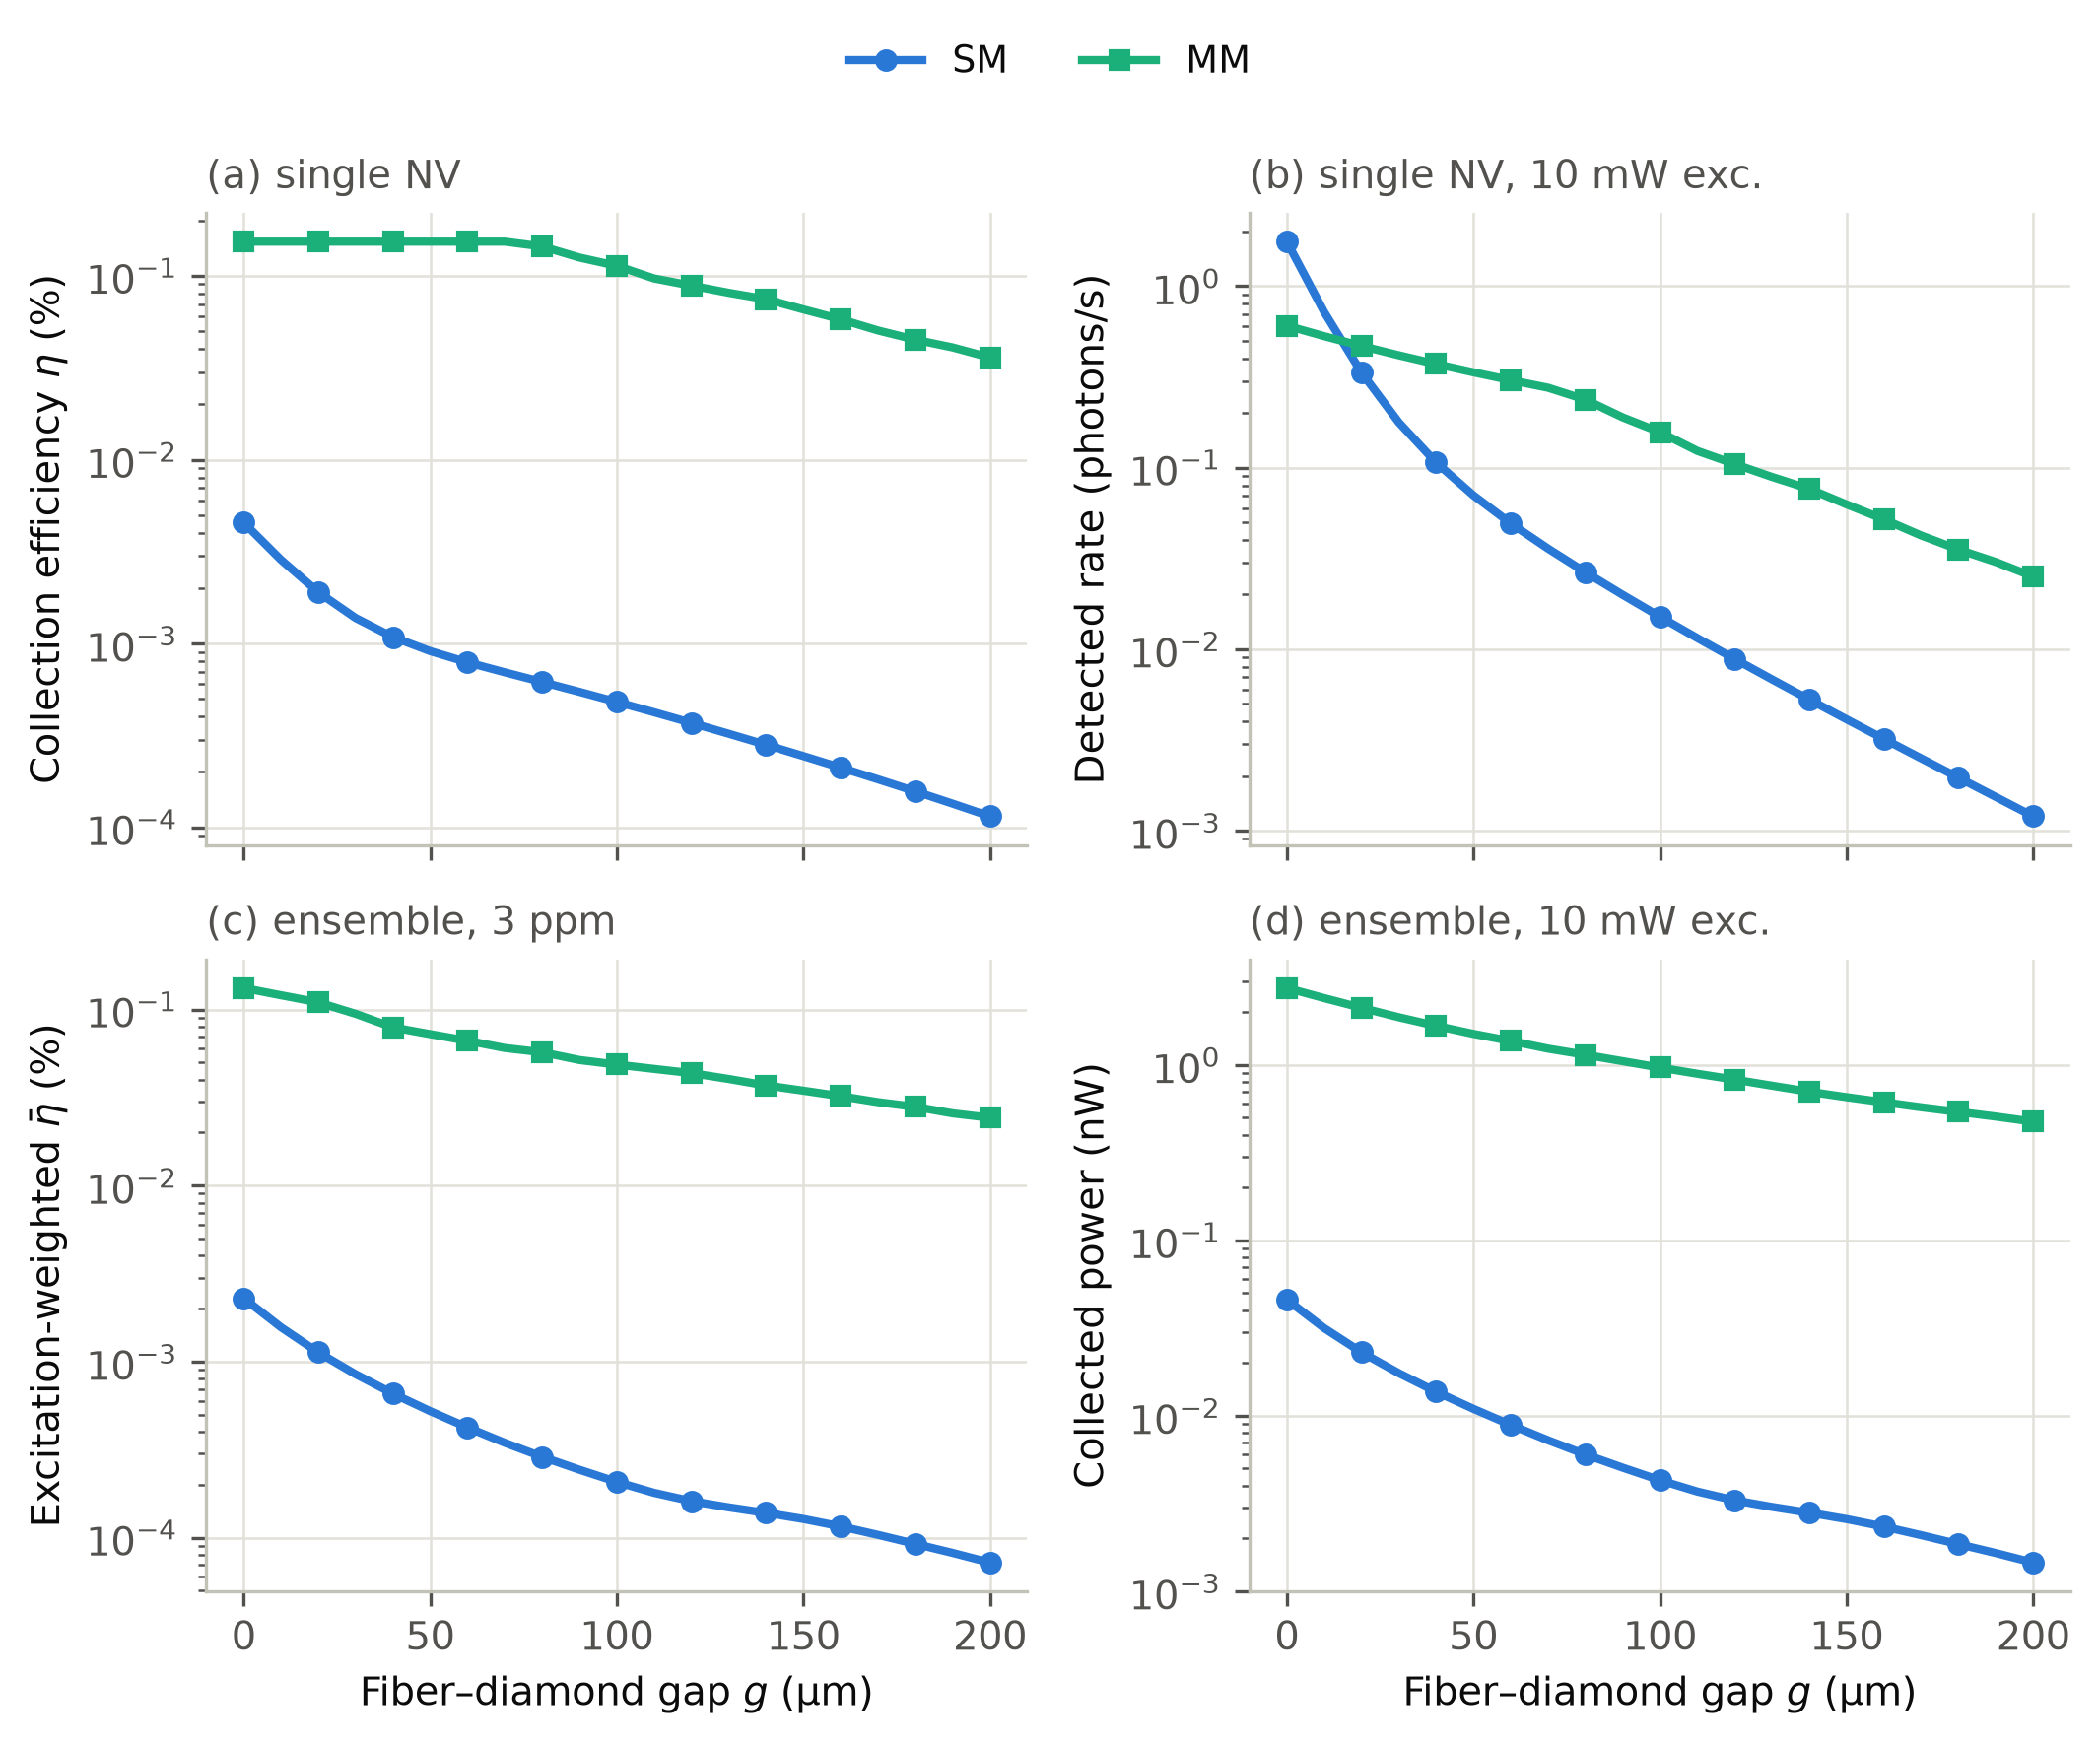
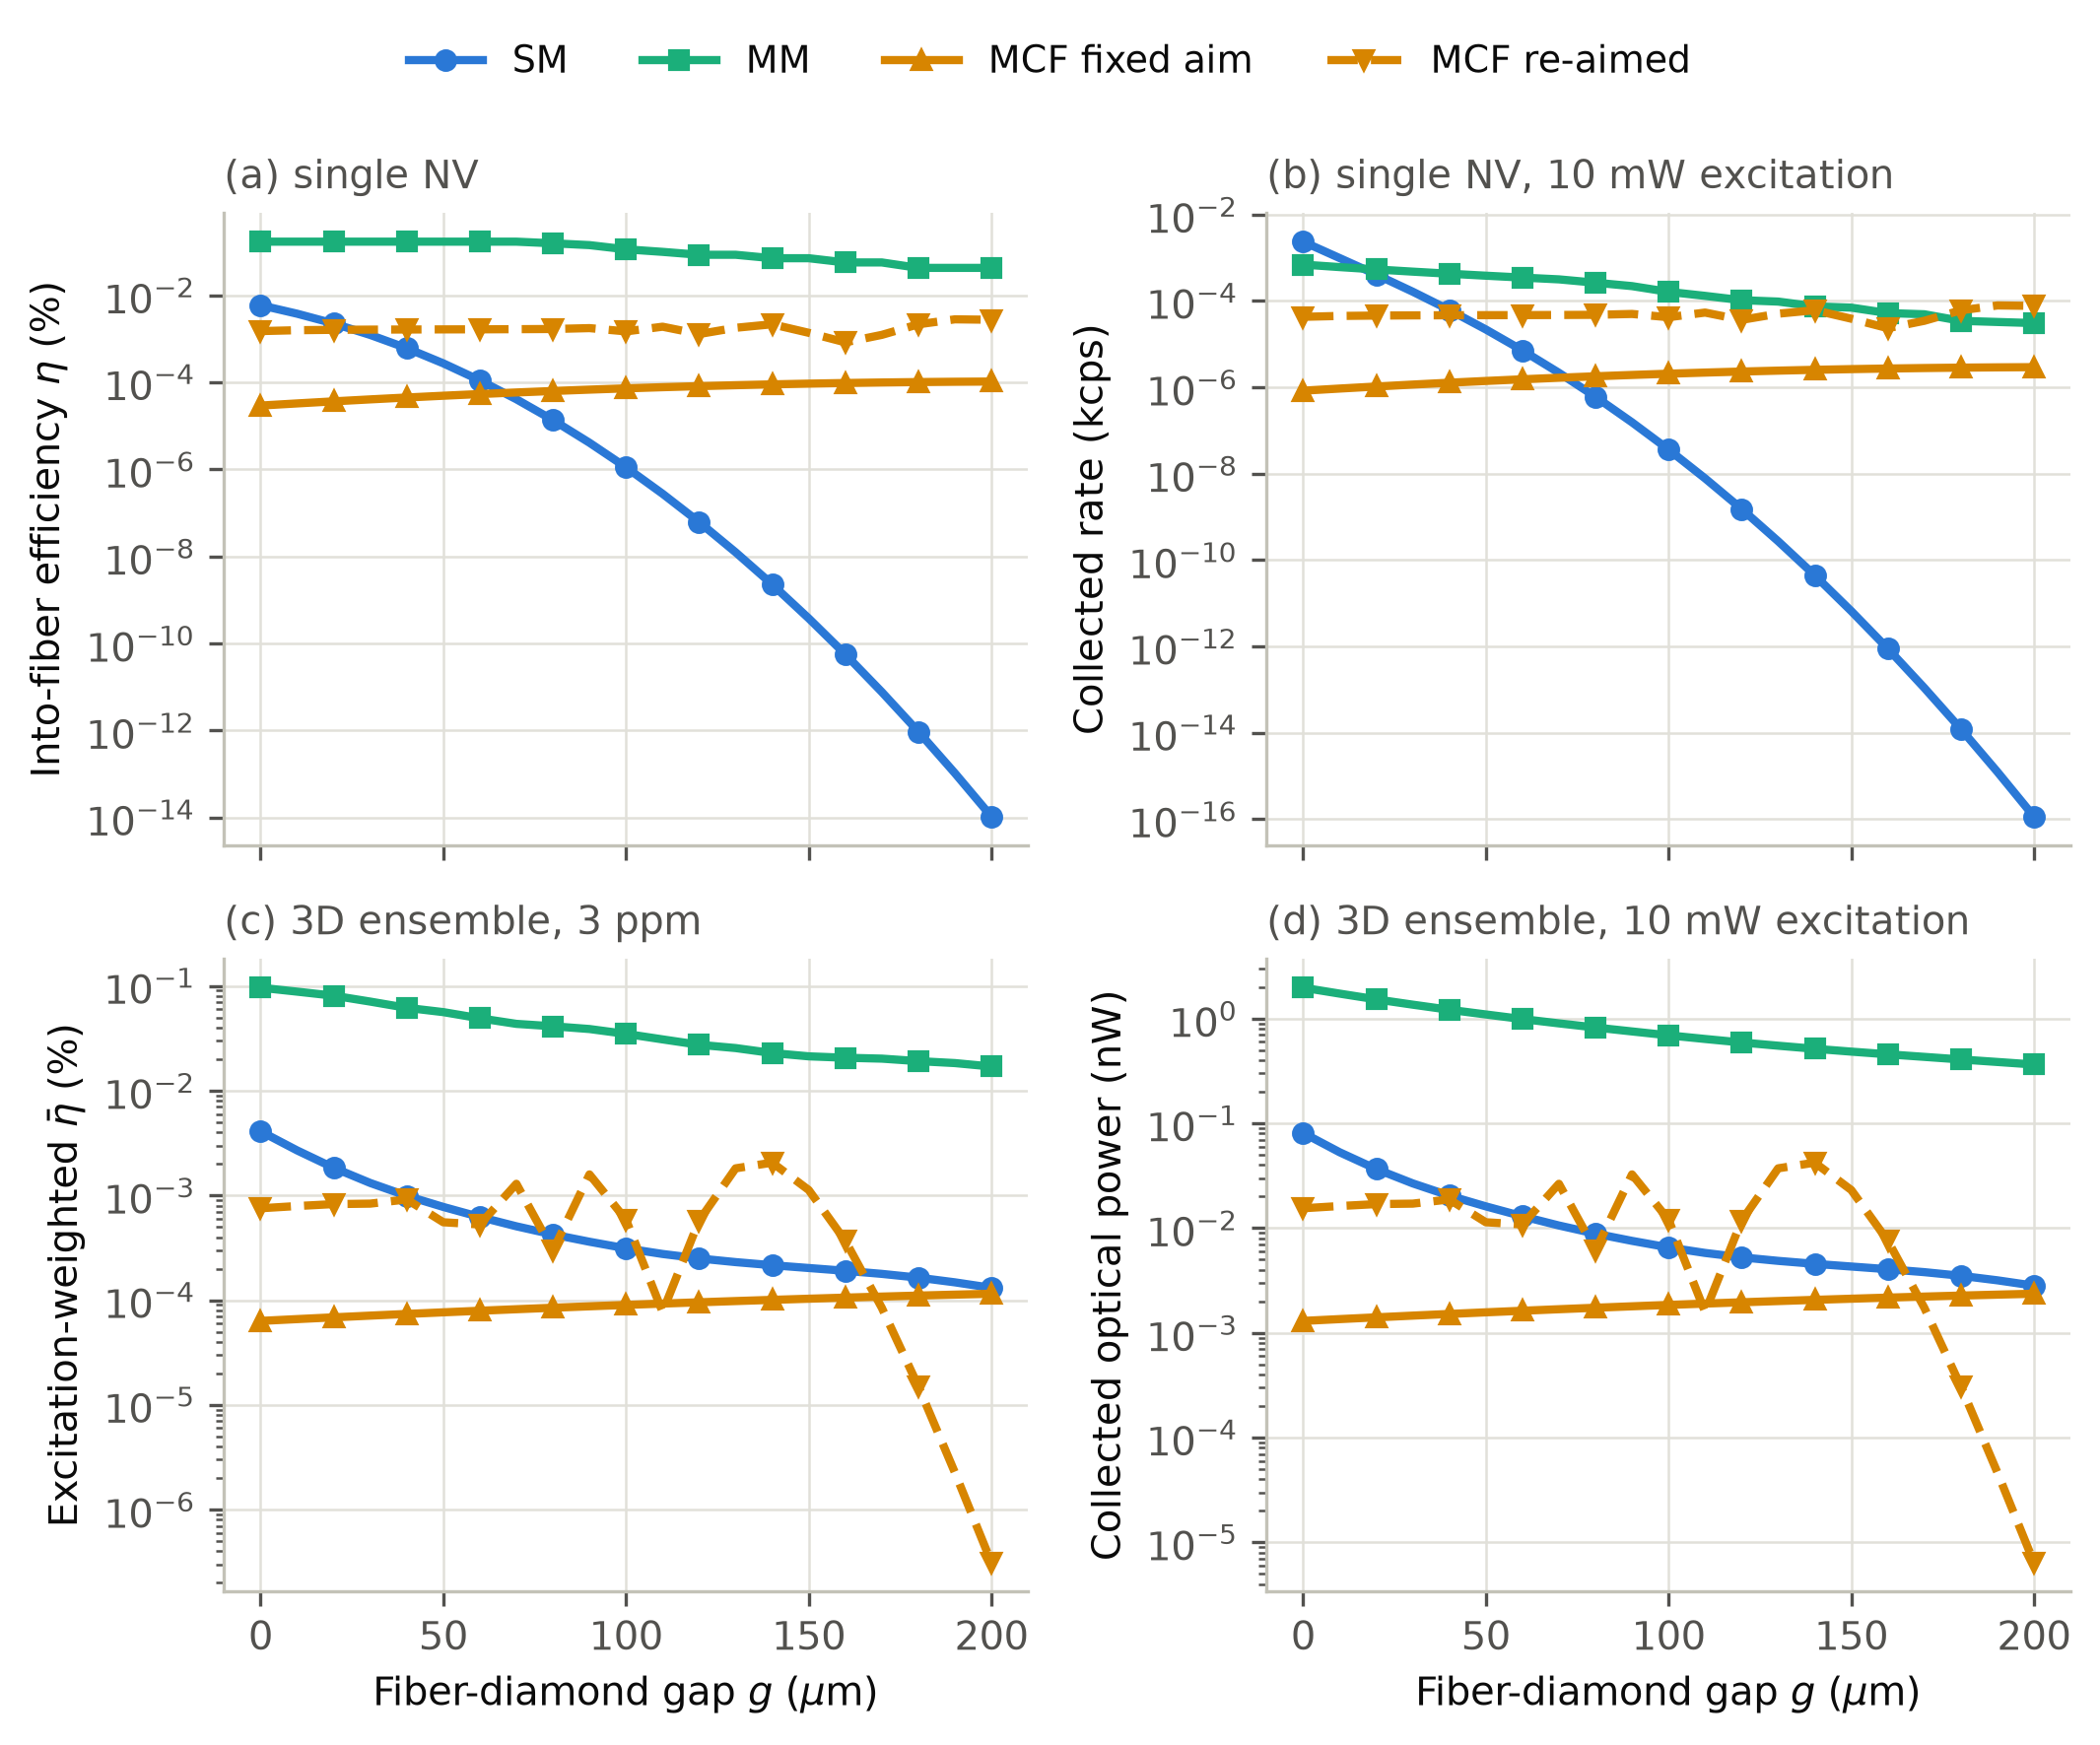
Refine paper figure generation and probe metrics

diff --git a/paper_figures.py b/paper_figures.py
@@ -1,6 +1,6 @@
 """
 paper_figures.py -- static publication figures for the SM / MM / MCF NV-diamond
-fiber-probe comparison. Run `py paper_figures.py`; figures land in ./figures
+fiber-probe comparison. Run `python paper_figures.py`; figures land in ./figures
 (PNG 300 dpi + vector PDF). No UI, no CLI args: edit the constants block.
 
 Model (shared Monte-Carlo ray tracer in physics.py, same as the app):
@@ -26,13 +26,13 @@ Model (shared Monte-Carlo ray tracer in physics.py, same as the app):
     and exactly reweighted by the true density / proposal pdf, so population
     totals are unbiased and every gap keeps hundreds of effective samples.
     Emission anisotropy: 4-axis NV dipole average.
-  * The MCF's lensed cores accept only ~0.7deg of angle, so those configs get
-    a much larger shared ray set (see CONFIGS); tracer calls are chunked over
-    emitters to cap memory.
-  * Efficiencies are "collected into the fiber" (diamond-exit Fresnel +
-    coupling); detected-rate/power panels additionally apply the fiber
-    entrance Fresnel. No filter/QE/attenuation chain -- these figures
-    characterize the probe, not a detector.
+  * Rays use a fixed, equal-solid-angle quadrature over the diamond escape
+    cone, rather than wasting samples over the TIR hemisphere.  Tracer calls
+    are chunked over emitters to keep the peak working set bounded.
+  * Every reported efficiency is power coupled into the fiber/lens: diamond
+    exit Fresnel, mode/geometric coupling, and the air-to-fiber/lens entrance
+    Fresnel are included. No filter, detector QE, connector, or propagation
+    loss is included -- these figures characterize the probe, not a detector.
   * Distance and resolution sweeps run at a representative 700 nm; the full
     spectral dependence is figure 2. Fixed seeds; fully reproducible.
 """
@@ -47,7 +47,7 @@ import matplotlib.pyplot as plt
 from physics import (
     diamond_sellmeier, nv_emission_spectrum,
     GEOMETRIC_MODEL, MODE_OVERLAP_MODEL,
-    get_collection_limit_radius, sample_ray_directions, run_ray_tracing,
+    get_collection_limit_radius, run_ray_tracing,
 )
 
 
@@ -85,8 +85,10 @@ E_PHOT_RED = 6.62607015e-34 * 2.99792458e8 / (LAM_RED * 1e-9)   # J
 # ensemble & Monte Carlo
 PPM        = 3.0
 RHO        = PPM * 1.76e5            # NV/um^3
-N_EMIT     = 1000                    # importance-sampled emitters
-RAY_BUDGET = 6_000_000               # max emitters*rays per tracer call (memory cap)
+N_EMIT     = 600                     # importance-sampled emitters
+# The tracer keeps several (n_emitters, n_rays) arrays plus a 3-vector array.
+# 0.75 M ray pairs gives a reproducible workstation-safe peak memory use.
+RAY_BUDGET = 750_000                 # max emitter-ray pairs per tracer call
 
 # MCF as-built (Shukhin et al., OMN 2024 + lens-design spreadsheet)
 PITCH, DECENTER = 35.0, 18.0
@@ -119,28 +121,28 @@ def mcf_fibers(g, reaim):
                      'd_clad': PITCH * 1.3, 'na': 0.15, 'boresight': b, 'w0': W0_LENS})
     return fibs
 
-# n1 / nen: shared ray-set sizes for the single-NV and ensemble runs. The MCF's
-# ~0.7deg angular acceptance keeps only ~1e-4 of hemisphere rays, so it needs
-# far more of them for the same Monte-Carlo error.
+# n1 / nen are equal-solid-angle escape-cone quadrature counts for the single
+# NV and ensemble calculations.  They are deliberately shared by all probe
+# types so differences are optical, not sampling artifacts.
 CONFIGS = [
     dict(name="SM",            exc="SM",  model=MODE_OVERLAP_MODEL,
          fibers=lambda g: [{'x': 0.0, 'y': 0.0, 'z': GAPS[-1], 'd_core': 4.0,
                             'd_clad': 125.0, 'na': 0.12}],
-         na=0.12, tf=t_face(1.46), n1=60_000, nen=12_000,
+         na=0.12, tf=t_face(1.46), n1=65_536, nen=16_384,
          color="#2a78d6", ls="-",  marker="o"),
     dict(name="MM",            exc="MM",  model=GEOMETRIC_MODEL,
          fibers=lambda g: [{'x': 0.0, 'y': 0.0, 'z': GAPS[-1], 'd_core': 50.0,
                             'd_clad': 125.0, 'na': 0.22}],
-         na=0.22, tf=t_face(1.46), n1=60_000, nen=12_000,
-         color="#1baf7a", ls="-",  marker="s")
-    # dict(name="MCF as-built",  exc="MCF", model=MODE_OVERLAP_MODEL,
-    #      fibers=lambda g: mcf_fibers(g, reaim=False),
-    #      na=0.15, tf=t_face(1.51), n1=6_000_000, nen=48_000,
-    #      color="#eda100", ls="-",  marker="^"),
-    # dict(name="MCF re-aimed",  exc="MCF", model=MODE_OVERLAP_MODEL,
-    #      fibers=lambda g: mcf_fibers(g, reaim=True),
-    #      na=0.15, tf=t_face(1.51), n1=6_000_000, nen=48_000,
-    #      color="#eda100", ls="--", marker="v"),
+         na=0.22, tf=t_face(1.46), n1=65_536, nen=16_384,
+         color="#1baf7a", ls="-",  marker="s"),
+    dict(name="MCF fixed aim", exc="MCF", model=MODE_OVERLAP_MODEL,
+           fibers=lambda g: mcf_fibers(g, reaim=False),
+           na=0.15, tf=t_face(1.51), n1=65_536, nen=16_384,
+           color="#d78500", ls="-",  marker="^"),
+    dict(name="MCF re-aimed",    exc="MCF", model=MODE_OVERLAP_MODEL,
+         fibers=lambda g: mcf_fibers(g, reaim=True),
+         na=0.15, tf=t_face(1.51), n1=65_536, nen=16_384,
+         color="#d78500", ls="--", marker="v"),
 ]
 
 # ============================ excitation ================================
@@ -153,7 +155,12 @@ def exc_width(profile, d, g):
     if profile == "SM":
         w0, th_a = 2.0, np.arcsin(0.12)
     else:                                    # MCF central core, collimated
-        w0, th_a = W0_LENS, (LAM_GREEN * 1e-3) / (np.pi * W0_LENS)
+        # Gaussian propagation: z_R = pi*n*w0^2/lambda.  The central core is
+        # collimated by design, so only this diffraction broadening is used.
+        w0 = W0_LENS
+        z_eff = g + d / N_DIA_GREEN
+        return w0 * np.sqrt(1.0 + (LAM_GREEN * 1e-3 * z_eff
+                                    / (np.pi * w0 * w0)) ** 2)
     th_d = np.arcsin(np.sin(th_a) / N_DIA_GREEN)
     return np.sqrt(w0 ** 2 + (g * np.tan(th_a) + d * np.tan(th_d)) ** 2)
 
@@ -168,6 +175,42 @@ def exc_rate(profile, x, y, z, g):
         I = 2.0 * P_GREEN_MW * T_GREEN_IN / (np.pi * w * w) * np.exp(-2.0 * r2 / (w * w))
     s = I / I_SAT
     return R_SAT * s / (1.0 + s), float(np.max(s))
+
+
+def escape_cone_quadrature(num_rays, n_dia, seed=42):
+    """Equal-solid-angle, fixed-seed quadrature over the transmitting cone.
+
+    ``run_ray_tracing`` normally expects directions drawn uniformly over the
+    upper hemisphere and therefore applies its conventional 1/2 factor.  Here
+    directions are instead restricted to the diamond-to-air escape cone; each
+    dipole weight gets the importance factor ``1-cos(theta_c)`` so the same
+    estimator remains exactly normalized to emission into 4pi.  A scrambled
+    grid avoids the severe rare-event noise of uniform-hemisphere Monte Carlo
+    for the MCF's diffraction-limited angular acceptance.
+    """
+    n_theta = max(1, int(np.floor(np.sqrt(num_rays))))
+    n_phi = int(np.ceil(num_rays / n_theta))
+    rng = np.random.default_rng(seed)
+    u_shift, p_shift = rng.random(2)
+    # Uniform in cos(theta) gives equal solid angle.  Keep every node safely
+    # inside the critical angle so numerical roundoff cannot create TIR rays.
+    cos_c = np.sqrt(1.0 - (N_MED / n_dia) ** 2)
+    u = ((np.arange(n_theta) + 0.5 + u_shift) % n_theta) / n_theta
+    p = ((np.arange(n_phi) + 0.5 + p_shift) % n_phi) / n_phi
+    uu, pp = np.meshgrid(u, p, indexing="ij")
+    cos_theta = 1.0 - uu.ravel() * (1.0 - cos_c)
+    phi = 2.0 * np.pi * pp.ravel()
+    sin_theta = np.sqrt(np.maximum(0.0, 1.0 - cos_theta * cos_theta))
+    v0 = np.column_stack((sin_theta * np.cos(phi), sin_theta * np.sin(phi), cos_theta))
+
+    # Four-axis NV average: two orthogonal dipoles per axis, normalized to
+    # unit 4pi-average emission.  This is also the orientation average used
+    # for the single-NV panel, where the individual NV orientation is unknown.
+    axes = np.array([[1.0, 1.0, 1.0], [1.0, -1.0, -1.0],
+                     [-1.0, 1.0, -1.0], [-1.0, -1.0, 1.0]]) / np.sqrt(3.0)
+    dipole_weight = 0.75 * (1.0 + np.mean((v0 @ axes.T) ** 2, axis=1))
+    weights = dipole_weight * (1.0 - cos_c)
+    return v0[:num_rays], weights[:num_rays]
 
 # ===================== ensemble emitter sampling ========================
 def sample_ensemble(cfg, n, rng):
@@ -227,32 +270,35 @@ def run_sweeps():
 
     for cfg in CONFIGS:
         print(f"  sweeping {cfg['name']} ...", flush=True)
-        V0_1, W0_1 = sample_ray_directions(cfg['n1'], "NV Symmetry Axis", "Ensemble (4-axis average)")
-        V0_e, W0_e = sample_ray_directions(cfg['nen'], "NV Symmetry Axis", "Ensemble (4-axis average)")
+        V0_1, W0_1 = escape_cone_quadrature(cfg['n1'], N_DIA_RED, seed=17)
+        V0_e, W0_e = escape_cone_quadrature(cfg['nen'], N_DIA_RED, seed=23)
         em, dens = sample_ensemble(cfg, N_EMIT, np.random.default_rng(42))
         r_em = np.hypot(em[:, 0], em[:, 1])
         order = np.argsort(r_em)
 
         eta1 = np.zeros_like(GAPS); rate1 = np.zeros_like(GAPS)
-        etaE = np.zeros_like(GAPS); powE = np.zeros_like(GAPS); d50 = np.zeros_like(GAPS)
+        etaE = np.zeros_like(GAPS); powE = np.zeros_like(GAPS); a50 = np.zeros_like(GAPS)
         for k, g in enumerate(GAPS):
             fibs = cfg['fibers'](g)
-            eta1[k] = eta_per_emitter(single, V0_1, W0_1, fibs, g, cfg['model'])[0]
+            eta1[k] = cfg['tf'] * eta_per_emitter(single, V0_1, W0_1, fibs, g, cfg['model'])[0]
             R1, s1 = exc_rate(cfg['exc'], 0.0, 0.0, -NV_DEPTH, g)
-            rate1[k] = R1 * eta1[k] * cfg['tf']
+            rate1[k] = R1 * eta1[k]
 
             eta_i = eta_per_emitter(em, V0_e, W0_e, fibs, g, cfg['model'])
             Ri, sE = exc_rate(cfg['exc'], em[:, 0], em[:, 1], em[:, 2], g)
             u = Ri * eta_i * dens                     # signal carried per sample
-            etaE[k] = u.sum() / (Ri * dens).sum()
+            etaE[k] = cfg['tf'] * u.sum() / (Ri * dens).sum()
             powE[k] = u.mean() * cfg['tf'] * E_PHOT_RED * 1e9     # nW
             cu = np.cumsum(u[order])
-            d50[k] = (2.0 * r_em[order][np.searchsorted(cu, 0.5 * cu[-1])]
-                      if cu[-1] > 0 else np.nan)
+            # A50 is the on-axis circular area on the NV layer containing
+            # half the excitation x collection weighted ensemble signal.
+            # This definition remains meaningful for the MCF's six lobes.
+            r50 = r_em[order][np.searchsorted(cu, 0.5 * cu[-1])] if cu[-1] > 0 else np.nan
+            a50[k] = np.pi * r50 * r50
             s_max_seen = max(s_max_seen, s1, sE)
 
         out[cfg['name']] = dict(cfg=cfg, eta1=eta1, rate1=rate1,
-                                etaE=etaE, powE=powE, d50=d50,
+                                etaE=etaE, powE=powE, a50=a50,
                                 g_opt=float(GAPS[np.argmax(eta1)]))
     return out, s_max_seen
 
@@ -262,10 +308,13 @@ def run_spectra(results):
     spectra = {}
     for name, r in results.items():
         cfg, g = r['cfg'], r['g_opt']
-        V0, W0 = sample_ray_directions(cfg['n1'], "NV Symmetry Axis", "Ensemble (4-axis average)")
+        # Cover the largest escape cone in the spectrum; the tracer then
+        # applies wavelength-specific Snell, Fresnel, and TIR physics.
+        n_min = min(float(diamond_sellmeier(lam / 1000.0)) for lam in LAM_SPECTRUM)
+        V0, W0 = escape_cone_quadrature(cfg['n1'], n_min, seed=31)
         spectra[name] = np.array([
-            eta_per_emitter(single, V0, W0, cfg['fibers'](g), g, cfg['model'],
-                            lam=lam, n_dia=float(diamond_sellmeier(lam / 1000.0)))[0]
+            cfg['tf'] * eta_per_emitter(single, V0, W0, cfg['fibers'](g), g, cfg['model'],
+                                         lam=lam, n_dia=float(diamond_sellmeier(lam / 1000.0)))[0]
             for lam in LAM_SPECTRUM])
     return spectra
 
@@ -292,21 +341,21 @@ def save(fig, stem):
 
 def fig1(results):
     fig, axs = plt.subplots(2, 2, figsize=(7.2, 5.8), sharex=True)
-    panels = [("eta1",  "Collection efficiency $\\eta$ (%)",    100.0, "(a) single NV"),
-              ("rate1", "Detected rate (photons/s)",            1.0,   "(b) single NV, 10 mW exc."),
-              ("etaE",  "Excitation-weighted $\\bar\\eta$ (%)", 100.0, "(c) ensemble, 3 ppm"),
-              ("powE",  "Collected power (nW)",                 1.0,   "(d) ensemble, 10 mW exc.")]
+    panels = [("eta1",  "Into-fiber efficiency $\\eta$ (%)",         100.0, "(a) single NV"),
+              ("rate1", "Collected rate (kcps)",                       1e-3,  "(b) single NV, 10 mW excitation"),
+              ("etaE",  "Excitation-weighted $\\bar\\eta$ (%)",      100.0, "(c) 3D ensemble, 3 ppm"),
+              ("powE",  "Collected optical power (nW)",               1.0,   "(d) 3D ensemble, 10 mW excitation")]
     for ax, (key, ylab, scale, title) in zip(axs.ravel(), panels):
         for r in results.values():
             ax.plot(GAPS, np.asarray(r[key]) * scale, **style(r['cfg']))
         ax.set_yscale("log")
         ax.set_ylabel(ylab)
         ax.set_title(title, fontsize=9.5, loc="left", color=INK2)
-    for ax in axs[1]:
-        ax.set_xlabel("Fiber–diamond gap $g$ (µm)")
     handles, labels = axs[0, 0].get_legend_handles_labels()
     fig.legend(handles, labels, ncol=4, loc="upper center",
                bbox_to_anchor=(0.5, 1.02), fontsize=9)
+    for ax in axs[1]:
+        ax.set_xlabel("Fiber-diamond gap $g$ ($\\mu$m)")
     fig.tight_layout(rect=(0, 0, 1, 0.96))
     save(fig, "fig1_efficiency_vs_gap")
 
@@ -317,11 +366,11 @@ def fig2(results, spectra):
     for name, eta in spectra.items():
         cfg = results[name]['cfg']
         st = style(cfg)
-        st['label'] = f"{name} (g = {results[name]['g_opt']:.0f} µm)"
         st['markevery'] = 1
+        st['label'] = f"{name} (g = {results[name]['g_opt']:.0f} $\\mu$m)"
         ax.plot(LAM_SPECTRUM, eta * 100.0, **st)
     ax.set_yscale("log")
-    ax.set_ylabel("Collection efficiency $\\eta(\\lambda)$ (%)")
+    ax.set_ylabel("Into-fiber efficiency $\\eta(\\lambda)$ (%)")
     ax.legend(fontsize=8, loc="center right")
 
     S = nv_emission_spectrum(LAM_SPECTRUM)
@@ -334,10 +383,10 @@ def fig2(results, spectra):
 def fig3(results):
     fig, ax = plt.subplots(figsize=(5.2, 3.6))
     for r in results.values():
-        ax.plot(GAPS, r['d50'], **style(r['cfg']))
-    ax.set_xlabel("Fiber–diamond gap $g$ (µm)")
-    ax.set_ylabel("Collection-area diameter $d_{50}$ (µm)")
+        ax.plot(GAPS, r['a50'], **style(r['cfg']))
     ax.set_ylim(bottom=0)
+    ax.set_xlabel("Fiber-diamond gap $g$ ($\\mu$m)")
+    ax.set_ylabel("50%-signal collection area $A_{50}$ ($\\mu$m$^2$)")
     ax.legend(fontsize=8.5)
     save(fig, "fig3_resolution_vs_gap")
 
@@ -356,13 +405,14 @@ if __name__ == "__main__":
     print(f"max saturation parameter s = I/I_sat encountered: {s_max:.2e}"
           f"  ->  {'saturation matters' if s_max > 0.1 else 'deeply linear regime'}")
     hdr = (f"{'probe':>14} | {'g* (um)':>7} | {'eta1(g*) %':>10} | "
-           f"{'rate1 (ph/s)':>12} | {'P_ens (nW)':>10} | {'d50(g*) um':>10}")
+           f"{'rate1 (kcps)':>12} | {'P_ens (nW)':>10} | {'A50(g*) um2':>12}")
     print("\n" + hdr + "\n" + "-" * len(hdr))
     for name, r in results.items():
         k = int(np.argmax(r['eta1']))
         print(f"{name:>14} | {r['g_opt']:7.0f} | {r['eta1'][k]*100:10.4f} | "
-              f"{r['rate1'][k]:12.3f} | {r['powE'][k]:10.3f} | {r['d50'][k]:10.1f}")
-    print("\nNotes: MCF 'as-built' beams cross ~300 um (air) from the lens plane, so its"
-          "\noptimum lies beyond the 0-200 um window by design; the re-aimed curve shows"
-          "\nthe idealized envelope. Single-NV rates are sub-cps at these gap/depth"
-          "\ncombinations -- ensemble operation (panels c,d) is the practical mode.")
+              f"{r['rate1'][k]*1e-3:12.5f} | {r['powE'][k]:10.3f} | {r['a50'][k]:12.1f}")
+    print("\nNotes: fixed-aim MCF boresights preserve the paper design's ~300 um air-side"
+          "\nconvergence; re-aimed MCF recalculates the side-core boresights at every gap."
+          "\nA50 is an on-axis circular area on the NV layer containing 50% of the"
+          "\nexcitation x collection weighted ensemble signal. Single-NV rates are reported"
+          "\nin kcps; ensemble operation is the practical mode for this deep NV layer.")